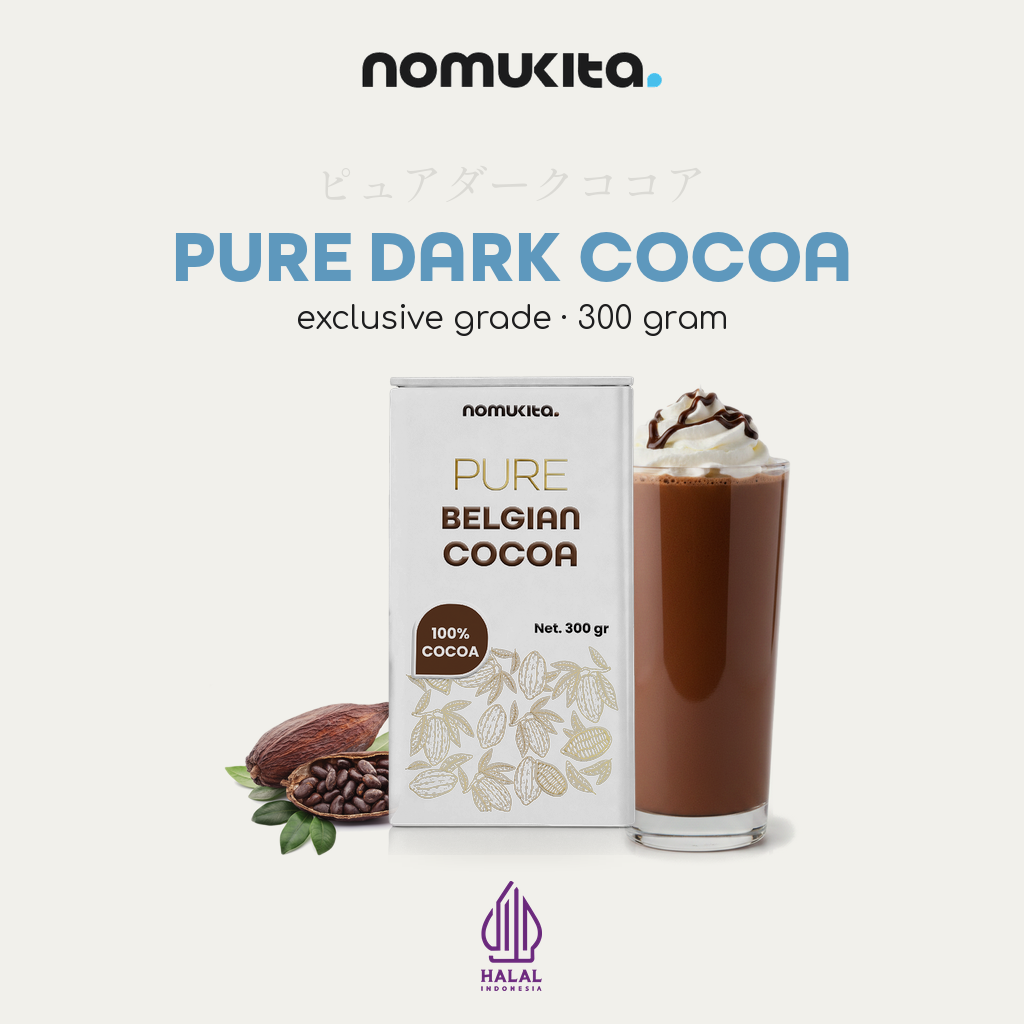
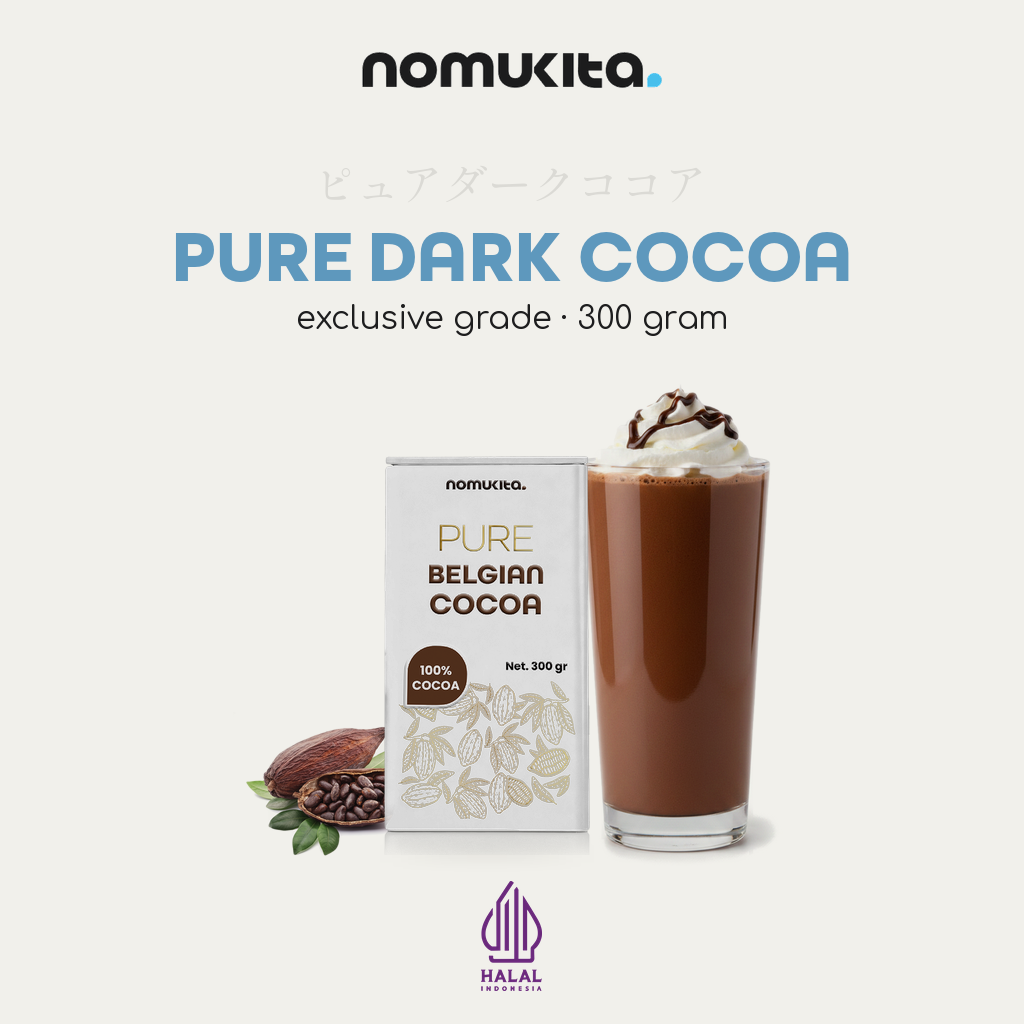
Fix the 300 gram composition, stop splitting Cappuccino, and build slide 3
The glass looked cut and out of proportion on the 300 gram slide for two
reasons, both belonging to the carton. Its stored height of 15 cm was multiplied
again by the 1.30 product boost that exists so a flat 12 cm sachet does not look
tiny, which made the carton 479 px, taller than the 442 px glass beside it. And
the 26 px glass overlap, which is nothing against a wide flat sachet, hides a
sixth of a 170 px wide glass behind a narrow carton. Packs taller than they are
wide now stand alongside with no overlap, and the carton is 12.5 cm.

Cappuccino is one word and is no longer broken across two lines; like every
other single word name it takes the katakana printed on its own pack as the
second line.

Slide 3 follows the Avocado serving suggestion reference. Twelve serving shots,
48 credits. fit_s5 caught two overflowing Cappuccino lines before any of it was
spent. Pure Dark Cocoa gets a different menu from Dark Cocoa, built on the 100%
cocoa figure printed on its own pack rather than on garnish.

verify flags silhouette coverage and foot flare on some of the new serving
shots. The twelve already approved slides trip the same checks at the same or
worse magnitudes, so this is the accepted condition of this pipeline rather than
a new defect, and it is written down rather than silently spent against.

Claude-Session: https://claude.ai/code/session_01A4GLsk6vKeeUp3C5p2a7yr

Changed region(s): [[0.2188, 0.3438, 0.7812, 0.8438]]

diff --git a/nomukita-carousel/render_250.py b/nomukita-carousel/render_250.py
@@ -24,6 +24,14 @@ PX_PER_CM = r1.PX_PER_CM * 1.35
 POUCH_BOOST = 1.30
 BOTTOM = r1.BOTTOM
 GLASS_OVERLAP = 26
+# ...tapi hanya untuk kemasan yang lebih LEBAR daripada tinggi.
+#
+# Sachet 250 gram itu datar dan melebar (494 x 383), jadi 26 px yang menutupi
+# gelas tidak terasa. Kotak 300 gram jangkung dan ramping (248 x 479), dan
+# gelasnya sendiri cuma 170 px lebar: 26 px berarti seperenam gelasnya hilang di
+# balik kotak, dan sisanya terbaca sebagai potongan gelas, bukan gelas.
+# Kemasan jangkung berdiri bersebelahan saja.
+TALL_PACK_OVERLAP = 0
 
 
 SEAL_TOP = 875       # segelnya mulai di 881; bayangan kontak gelas berhenti sebelum ini
@@ -94,6 +102,7 @@ def build(idx, glass_img, prop_img, out, slug,
     src = src.crop(src.getbbox())
     pw = round(src.width * ph_pouch / src.height)
 
+    overlap_glass = GLASS_OVERLAP if src.width >= src.height else TALL_PACK_OVERLAP
     gw = photo.size_at(glass_img, gh, body=True)
     # Garnis yang menjulur ke samping tidak ikut terhitung saat memusatkan grup,
     # karena pemusatannya memakai badan gelas. Pada skala 250 gram yang lebih
@@ -111,8 +120,8 @@ def build(idx, glass_img, prop_img, out, slug,
     # badan gelas. Grupnya dipusatkan pada rentang ini, bukan pada badan-badannya
     # saja: kalau tidak, polong vanili yang menjulur ke kanan menggeser seluruh
     # komposisinya dan menembus margin kanvas.
-    rel_l = min(overlap - aw, pw - GLASS_OVERLAP - over_l)
-    rel_r = max(pw, pw - GLASS_OVERLAP + gw + over_r)
+    rel_l = min(overlap - aw, pw - overlap_glass - over_l)
+    rel_r = max(pw, pw - overlap_glass + gw + over_r)
     x0 = round(512 - (rel_l + rel_r) / 2)
     if rel_r - rel_l > 1024 - 2 * MARGIN:
         # Terlalu lebar bahkan setelah dipusatkan: kecilkan sekali, sebanyak yang
@@ -147,7 +156,7 @@ def build(idx, glass_img, prop_img, out, slug,
     # kalau fotonya ditaruh di atasnya, produknya - yang justru jadi hero - malah
     # terkubur di antara alpukat dan gelas. Digambar di depan, ia yang menutupi
     # keduanya dan kembali memimpin.
-    photo.place(flat, glass_img, x0 + pw - GLASS_OVERLAP, BOTTOM, gh, body=True)
+    photo.place(flat, glass_img, x0 + pw - overlap_glass, BOTTOM, gh, body=True)
     if prop_img:
         photo.place(flat, prop_img, x0 + overlap - aw, BOTTOM, prop_h)
 
@@ -160,4 +169,4 @@ def build(idx, glass_img, prop_img, out, slug,
 
     flat.save(out)
     return out, r1.layers_intact(clean, flat, [(x0, x0 + overlap),
-                                               (x0 + pw - GLASS_OVERLAP, x0 + pw)])
+                                               (x0 + pw - overlap_glass, x0 + pw)])

diff --git a/nomukita-carousel/build_slides.py b/nomukita-carousel/build_slides.py
@@ -146,11 +146,18 @@ PRODUCTS = [
 # Kemasan kecil tiap produk dan tingginya relatif terhadap pouch 1000 gram.
 # Untuk pouch 250 gram angkanya 0,5, dari perbandingan tinggi sebenarnya kedua
 # kemasan. Kotak 300 gram Pure Dark Cocoa tidak punya angka sebenarnya yang bisa
-# saya periksa - yang ada hanya berkas artworknya - jadi 0,62 di bawah adalah
-# pilihan mata, bukan ukuran. Kotaknya lebih jangkung dan lebih ramping daripada
+# saya periksa - yang ada hanya berkas artworknya - jadi angka di bawah pilihan
+# mata, bukan ukuran.
+#
+# Semula 15 cm. Pada slide 250 gram angka itu dikalikan lagi dengan POUCH_BOOST
+# 1,30 - dorongan yang ada supaya sachet datar 12 cm tidak tampak mungil - dan
+# kotaknya jadi 479 px, LEBIH TINGGI daripada gelas 442 px di sebelahnya. Kotak
+# jangkung di samping gelas ramping membuat gelasnya terbaca sebagai serpihan.
+# 12,5 cm menaruh kotaknya sedikit di bawah bibir gelas, dan keduanya terbaca
+# sebagai dua benda utuh. Kotaknya lebih jangkung dan lebih ramping daripada
 # pouch 250 gram (rasio 0,52 lawan 1,24), jadi pada tinggi yang sama ia tampak
 # jauh lebih kecil. Ukuran sebenarnya perlu dikonfirmasi pelanggan.
-SMALL = {"PureDarkCocoa": ("p300", "300 gram", 0.62, 15.0)}
+SMALL = {"PureDarkCocoa": ("p300", "300 gram", 0.62, 12.5)}
 
 
 def small_pack(p):

diff --git a/nomukita-carousel/verify.py b/nomukita-carousel/verify.py
@@ -327,6 +327,11 @@ S5_SUB = {
     "Avocado": "one avocado", "Vanilla": "one vanilla",
     "MilkTea": "one milk tea", "LemonTea": "one lemon tea",
     "FrappeBase": "one frappe base", "LemonGrass": "one lemongrass",
+    # Ditulis ulang di sini dengan sengaja, sama seperti EXPECTED: pemeriksa yang
+    # membaca harapannya dari modul yang menggambar slide hanya bisa membuktikan
+    # rendernya bisa diulang, bukan bahwa isinya benar.
+    "PureDarkCocoa": "one pure cocoa", "DarkCocoa": "one dark cocoa",
+    "Cappuccino": "one cappuccino", "Taro": "one taro",
 }
 
 # Jendela pengukuran keterangan. Kolom tengah turun 124 px sehingga tidak pernah

diff --git a/nomukita-carousel/s2_copy.py b/nomukita-carousel/s2_copy.py
@@ -143,7 +143,10 @@ COPY = {
          "A darker roast profile, so the cocoa still reads through milk and ice."),
     ], "Darker than the usual chocolate drink."),
 
-    "Cappuccino": ("CAPPU", "CCINO", [
+    # Cappuccino satu kata dan tidak boleh dipenggal. Nama satu kata memakai
+    # katakana yang tercetak di kemasannya sebagai baris kedua, aturan yang sama
+    # dengan Charcoal, Vanilla dan Taro.
+    "Cappuccino": ("CAPPUCCINO", "カプチーノ", [
         ("COFFEE ANTIOXIDANT",
          "Coffee carries chlorogenic acids, the antioxidants that come from the bean."),
         ("FOAM THAT HOLDS",

diff --git a/nomukita-carousel/README.md b/nomukita-carousel/README.md
@@ -955,3 +955,48 @@ produknya. Kemasan 300 gramnya mencetak "PURE BELGIAN COCOA" sementara slide-nya
 berjudul PURE DARK COCOA, jadi naskahnya sengaja tidak menyebut Belgia sama
 sekali - asal geografis itu klaim yang bisa diperiksa orang lain. Yang dikutip
 hanya angka yang benar-benar tercetak di kemasan itu sendiri, "100% cocoa".
+
+### Kotak 300 gram: tinggi dan tumpang tindihnya
+
+Pelanggan: pada slide 300 gram gelasnya terpotong dan tidak proporsional. Dua
+sebab, dua-duanya milik kotak itu.
+
+**Tingginya.** `SMALL` menyimpan 15 cm untuk kotak itu. Pada slide kemasan kecil
+angka itu dikalikan lagi dengan `POUCH_BOOST` 1,30 - dorongan yang memang ada
+supaya sachet datar 12 cm tidak tampak mungil - dan kotaknya jadi 479 px, LEBIH
+TINGGI daripada gelas 442 px di sebelahnya. Kotak jangkung di samping gelas
+ramping membuat gelasnya terbaca sebagai serpihan. Sekarang 12,5 cm, yang
+menaruh kotaknya sedikit di bawah bibir gelas.
+
+**Tumpang tindihnya.** `GLASS_OVERLAP` 26 px cocok untuk sachet 250 gram yang
+datar dan melebar (494 x 383): 26 px yang tertutup tidak terasa. Kotak 300 gram
+jangkung dan ramping (248 x 479) dan gelasnya sendiri cuma 170 px lebar, jadi 26
+px berarti seperenam gelasnya hilang di balik kotak. Kemasan yang lebih tinggi
+daripada lebar sekarang berdiri bersebelahan saja, tanpa tumpang tindih. Kedua
+belas sachet datar tidak terpengaruh.
+
+**"Cappuccino" tidak dipenggal.** Naskah slide 2 sempat memecahnya jadi
+"CAPPU" / "CCINO". Nama satu kata memakai katakana yang tercetak di kemasannya
+sebagai baris kedua, aturan yang sama dengan Charcoal, Vanilla dan Taro:
+CAPPUCCINO / カプチーノ.
+
+## Slide 3 (serving suggestions) untuk empat produk baru
+
+Acuan `slide-5/Avocado_S5.png`, dibangun `render_s5.py` dengan menu di
+`s5_menu.py`. Dua belas gambar sajian, 48 kredit. `fit_s5.py` mengukur setiap
+barisnya lebih dulu dan menangkap dua baris Cappuccino yang tumpah - kata
+pendeknya jadi "coffee", bukan "cappuccino", persis alasan yang sama kenapa
+acuannya menulis "2g matcha" dan bukan "2g exclusive matcha".
+
+Menu Pure Dark Cocoa sengaja dibuat berbeda dari Dark Cocoa supaya keduanya
+tidak kembar. Yang membedakan bukan hiasan melainkan sifat produknya: kemasan
+Pure Dark Cocoa mencetak 100% cocoa tanpa gula, jadi kreasinya bertumpu pada
+rasa pahit dengan pemanis diserahkan ke peminumnya, termasuk satu iced mocha.
+
+`verify` menandai beberapa gambar sajian baru: siluet menutupi 48 sampai 64
+persen bingkai, dan melebar 1,40 sampai 1,53 kali lebar badannya di kaki -
+lempeng beige di bawah wadahnya. Kedua belas slide yang SUDAH disetujui
+pelanggan menyalakan peringatan yang sama pada besaran yang sama atau lebih
+buruk (Avocado 62 persen, Vanilla melebar 2,11 kali), jadi ini kondisi yang
+sudah diterima pada pipeline ini, bukan cacat baru. Dicatat di sini supaya
+keputusannya tetap ada pada pelanggan.
